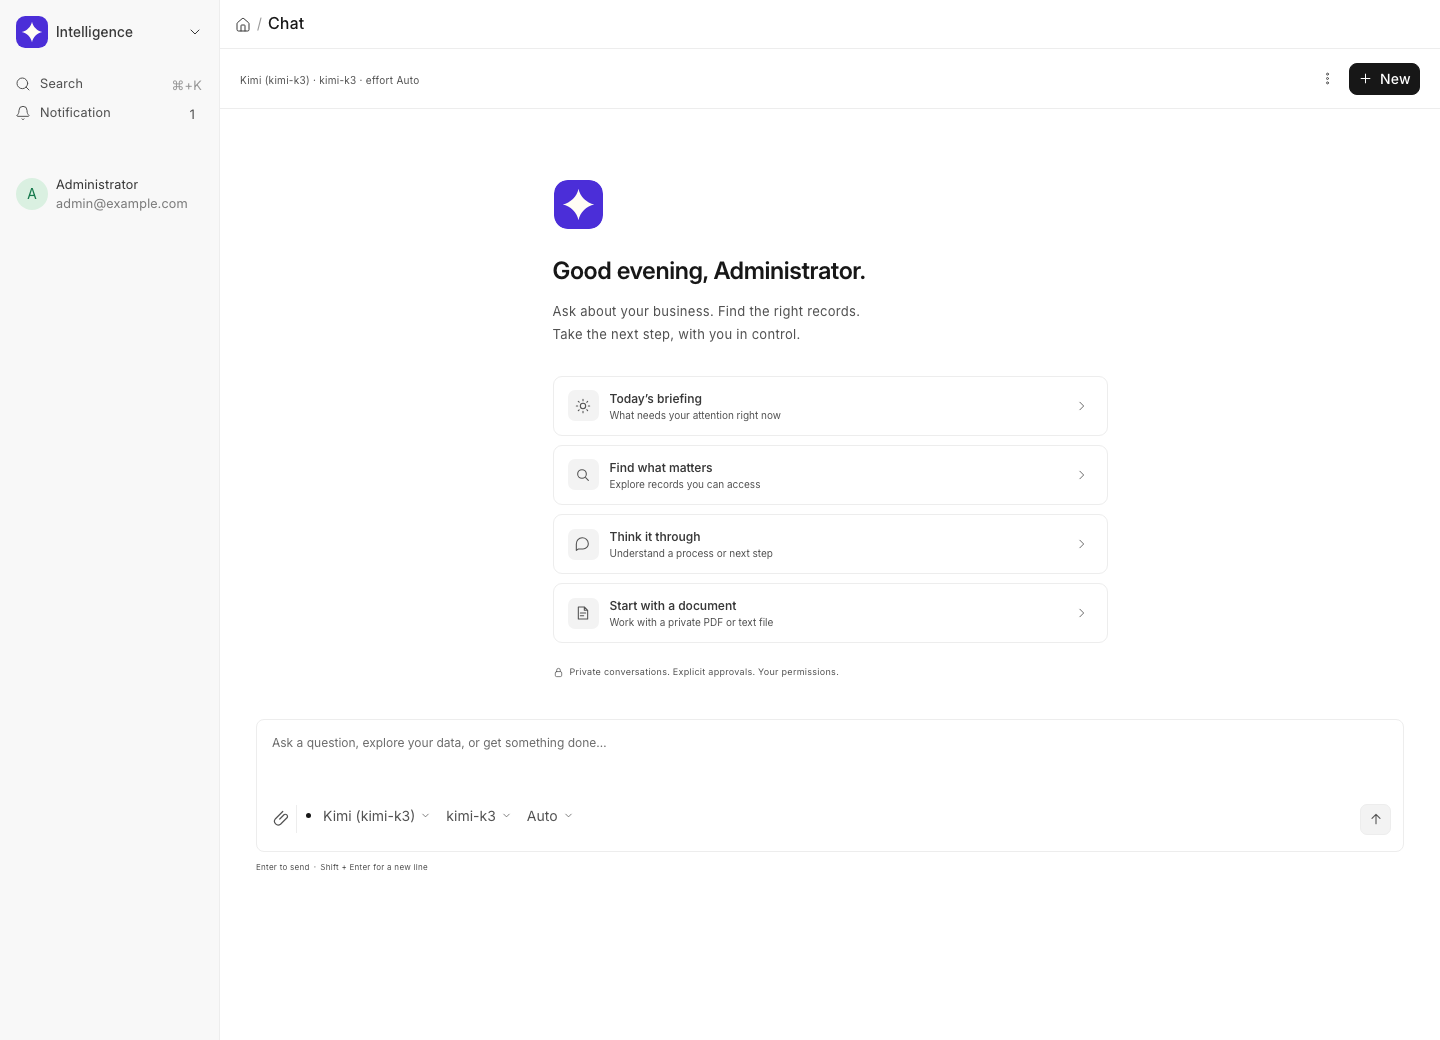
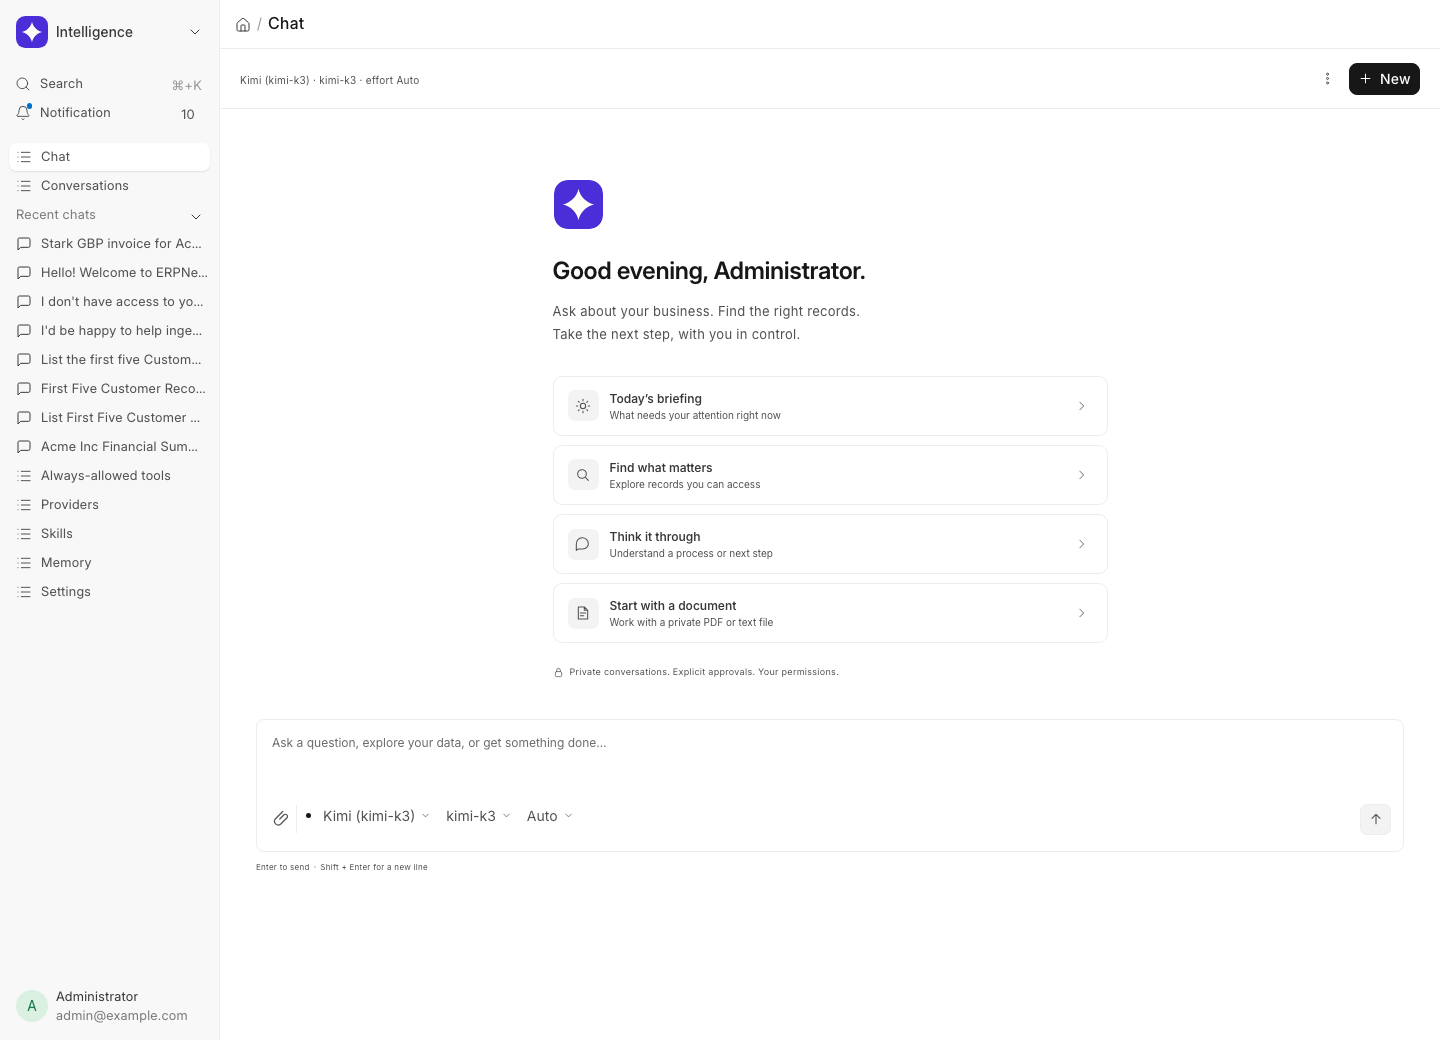
docs: recapture the sidebar shots on 0.7.4 and record the live verification
welcome.png and desk-sidebar.png now show the native workspace nav with
the Recent chats section; the previous captures predate the fix for the
hidden nav. verification.md gains the 0.7.4 entry: 24/24 live browser
checks, the CSS regression that blanked the nav, and the MutationObserver
re-injection fix.

Changed region(s): [[0.0, 0.1538, 0.125, 0.4923], [0.0, 0.9538, 0.125, 0.9846], [0.0312, 0.5231, 0.0625, 0.5846]]

diff --git a/docs/verification.md b/docs/verification.md
@@ -111,6 +111,14 @@ A real Chromium session then drove the live UI: the floating button docked the p
 
 One verification lesson is recorded for future deploys: the version endpoint reports the new release as soon as the web container serves it, while `bench migrate` (which creates the new tables and seeds the example policies) can still be running. A readiness check must wait for a migrate-completed signal, such as the seeded policies being countable, not just for the version string; the first check run raced the migrate and the second passed 26/26 unchanged.
 
+## Live verification of 0.7.4, 23 September 2026
+
+Image `ghcr.io/greatwharf/frappe-intelligence:0.7.4` (tag `v0.7.4`, commit `4fc0523`) was deployed to the same disposable ERPNext v16 site. Local gates before the push: **713 Python tests**, **165 dependency-free UI tests in both DOM modes**, ruff lint and formatting, all green; GitHub Actions ran green on the same tree (unit, browser, image build).
+
+0.7.4 folds recent conversations into the native Desk sidebar as a collapsible "Recent chats" section built from the exact markup frappe renders for workspace rows, placed after the Conversations link and capped at eight rows. It also fixes two regressions the live checks caught: a custom-panel-era CSS rule that hid the whole workspace nav while the app was open (`body-sidebar-top`, now guarded by tests/test_desk_chrome.py), and the section not returning after frappe rebuilt the sidebar without a router event (now re-injected by a MutationObserver).
+
+After the deploy, **24/24 browser checks passed** in a real Chromium session: login and asset resolution; the section appearing on `/desk/intelligence` with native section-item markup, the native header label, placement after Conversations, between one and eight indented rows linking at chat routes and mirroring the API order and titles; clicking a row opening the conversation with the row marked active and the title matching; collapse toggling, persisting to the native `section-breaks-state` bucket and surviving a reload; a REST rename flowing through `App.refreshList` into the sidebar live; and the section staying out of other workspaces while remaining on the Conversations list sidebar. Captures: [screenshots/welcome.png](screenshots/welcome.png), [screenshots/desk-sidebar.png](screenshots/desk-sidebar.png).
+
 ## Remaining validation boundaries
 
 - Actual Frappe/ERPNext install, migration, native permission dispatch and RQ/realtime behavior on the target site.
